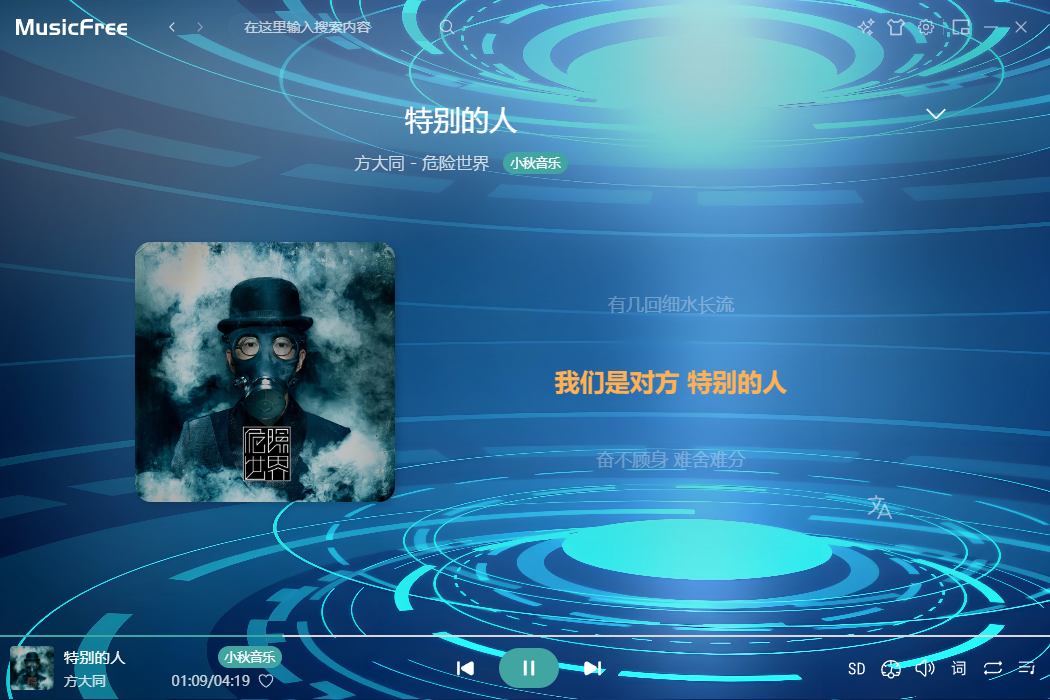
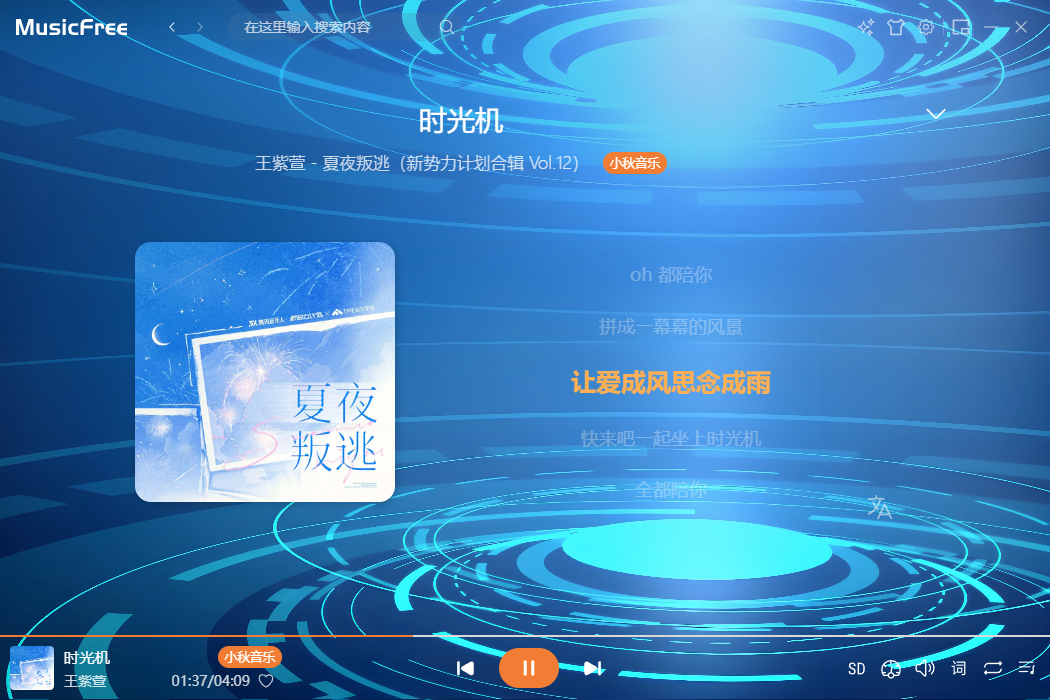
更新preview

diff --git a/README.md b/README.md
@@ -106,6 +106,21 @@ MusicFreeDesktop桌面版
   <img src=".imgs/言叶之庭歌曲详情.png" width = 40% />
   <br><br>
 
+- 艾莎【elsa】<br>
+  <img src=".imgs/艾莎主题.png" width = 40% />
+  <img src=".imgs/艾莎主题歌曲详情.png" width = 40% />
+  <br><br>
+
+- 街道主题【street】<br>
+  <img src=".imgs/街道主题.png" width = 40% />
+  <img src=".imgs/街道主题歌曲详情.png" width = 40% />
+  <br><br>
+
+- 蓝影主题【blue-shadow】<br>
+  <img src=".imgs/蓝影主题.png" width = 40% />
+  <img src=".imgs/蓝影主题歌曲详情.png" width = 40% />
+  <br><br>
+
 </details>
 <hr>
 <br><br><br>
